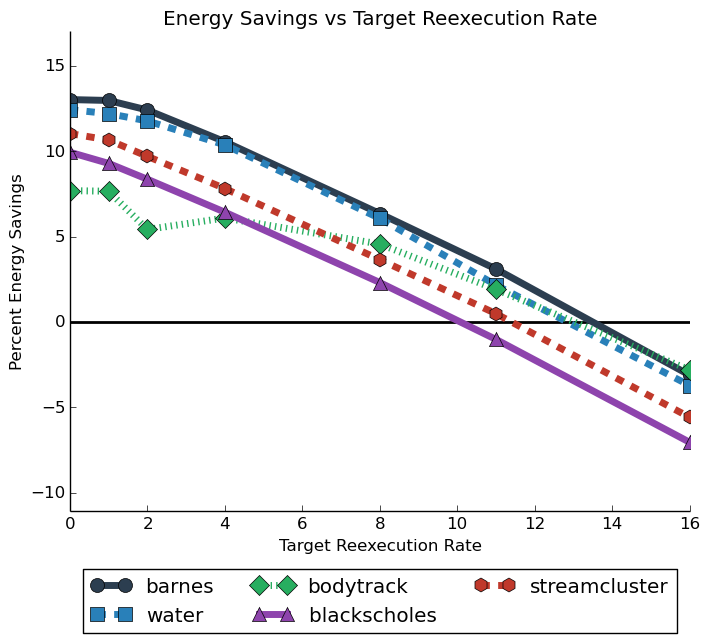
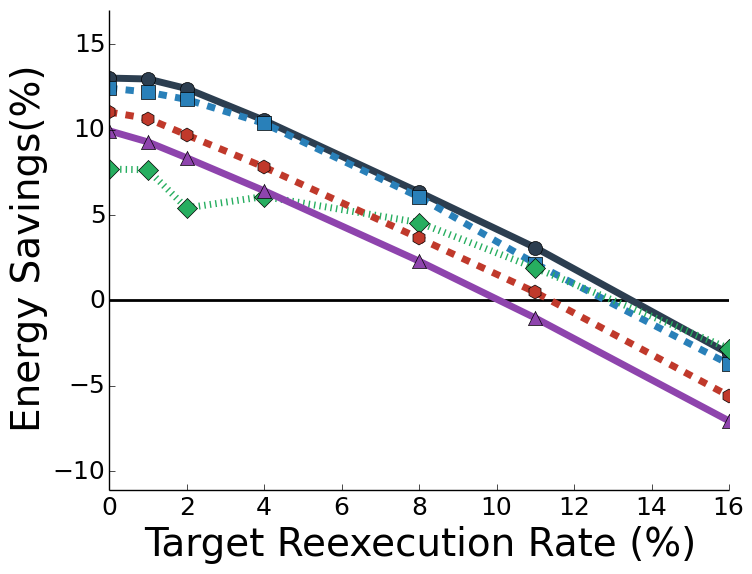
Fixed

Changed region(s): [[0.0, 0.0296, 0.9929, 1.0], [0.2172, 0.0, 0.8378, 0.0592], [0.9619, 0.7997, 0.9929, 0.8293]]

diff --git a/benchmarks/aov/proc_aov_batch.py b/benchmarks/aov/proc_aov_batch.py
@@ -71,20 +71,23 @@ def produce_tuple_plot(filename,title,key,xvals,xticks,axis,is_tiny):
 		title = title
 		xlab = axis
 		filename = filename+".png"
+		FONTSIZE=24
+		LABSIZE=16
+		LEGSIZE=20
 		
 		fig,ax = plt.subplots()
 		axes = [ax, ax.twinx(), ax.twinx()]
 		#axes = [ax, ax.twinx()]
 
 
-		fig.subplots_adjust(right=0.75);
+		fig.subplots_adjust(right=1);
 
 		axes[-1].spines['right'].set_position(('axes',1.2))
 		axes[-1].set_frame_on(True);
 		axes[-1].patch.set_visible(False);
 
 		plt.margins(0.05, 0.05)
-		plt.title(title,fontsize=14)
+		#plt.title(title,fontsize=FONTSIZE)
 		idxs = range(0,len(xvals));
 		qual = map(lambda x : get([key,"normal",x,"median"]),xvals) 
 		en = map(lambda x : get([key,"ltime-tpz",x,"median"]),xvals) 
@@ -93,19 +96,19 @@ def produce_tuple_plot(filename,title,key,xvals,xticks,axis,is_tiny):
 		colors = ["#2980b9","#27ae60","#c0392b"];
 		lw=5
 		i=0;
-		axes[i].plot(idxs,qual,label="Output Quality",linewidth=lw,linestyle="-",color=colors[i],marker="^");
-		axes[i].set_ylabel("Output Quality (Percent Price Error)")
+		axes[i].plot(idxs,qual,label="Relative Price Error (%)",linewidth=lw,linestyle="-",color=colors[i],marker="^");
+		axes[i].set_ylabel("Relative Price Error (%)",fontsize=FONTSIZE)
 
 		i+=1;
-		axes[i].plot(idxs,en,label="Energy Savings", linewidth=lw,linestyle="--",color=colors[i],marker="h");
-		axes[i].set_ylabel("Energy Savings (%)")
+		axes[i].plot(idxs,en,label="Energy Savings (%)", linewidth=lw,linestyle="--",color=colors[i],marker="h");
+		axes[i].set_ylabel("Energy Savings (%)",fontsize=FONTSIZE )
 
 		i+=1;
-		axes[i].plot(idxs,det,label="% Errors Detected",linewidth=lw,linestyle=":",color=colors[i],marker="o");
+		axes[i].plot(idxs,det,label="Error Detection Rate (%)",linewidth=lw,linestyle=":",color=colors[i],marker="o");
 		axes[i].set_ylim(0,axes[i].get_ylim()[1]);
-		axes[i].set_ylabel("% Errors Detected (%)")
+		axes[i].set_ylabel("Error Detection Rate (%)",fontsize=FONTSIZE)
 
-		axes[0].set_xlabel(xlab)
+		axes[0].set_xlabel(xlab,fontsize=FONTSIZE)
 		
 		handles = [];
 		labels = [];
@@ -120,18 +123,23 @@ def produce_tuple_plot(filename,title,key,xvals,xticks,axis,is_tiny):
 		labels = labels+l
 		
 		print handles,labels
-		lgd = plt.legend(handles, labels,loc="upper center", bbox_to_anchor=(0.5,-0.1),ncol=3)
+		lgd = plt.legend(handles, labels,loc="upper center", bbox_to_anchor=(0.5,-0.2),ncol=3, fontsize=LEGSIZE)
 		
 		
+		axes[0].tick_params(axis="y",labelsize=LABSIZE);
+		axes[1].tick_params(axis="y",labelsize=LABSIZE);
+		axes[2].tick_params(axis="y",labelsize=LABSIZE);
 		if(is_tiny):
-			axes[0].set_xticks(map(lambda x : x + 0.5, idxs), minor=False);
+			axes[0].set_xticks(map(lambda x : x, idxs), minor=False);
 			axes[0].set_xticklabels(xticks,rotation=45);
-			axes[0].tick_params(axis="x",labelsize=8);
+			axes[0].tick_params(axis="x",labelsize=LABSIZE);
 		
 		else:
-			axes[0].set_xticks(map(lambda x : x + 0.5, idxs), minor=False);
+			axes[0].set_xticks(map(lambda x : x, idxs), minor=False);
 			axes[0].set_xticklabels(xticks,rotation=0);
+			axes[0].tick_params(axis="x",labelsize=LABSIZE);
 		
+                
 		plt.savefig(filename, bbox_extra_artists=(lgd,), bbox_inches='tight')
 		
 	except KeyError:
